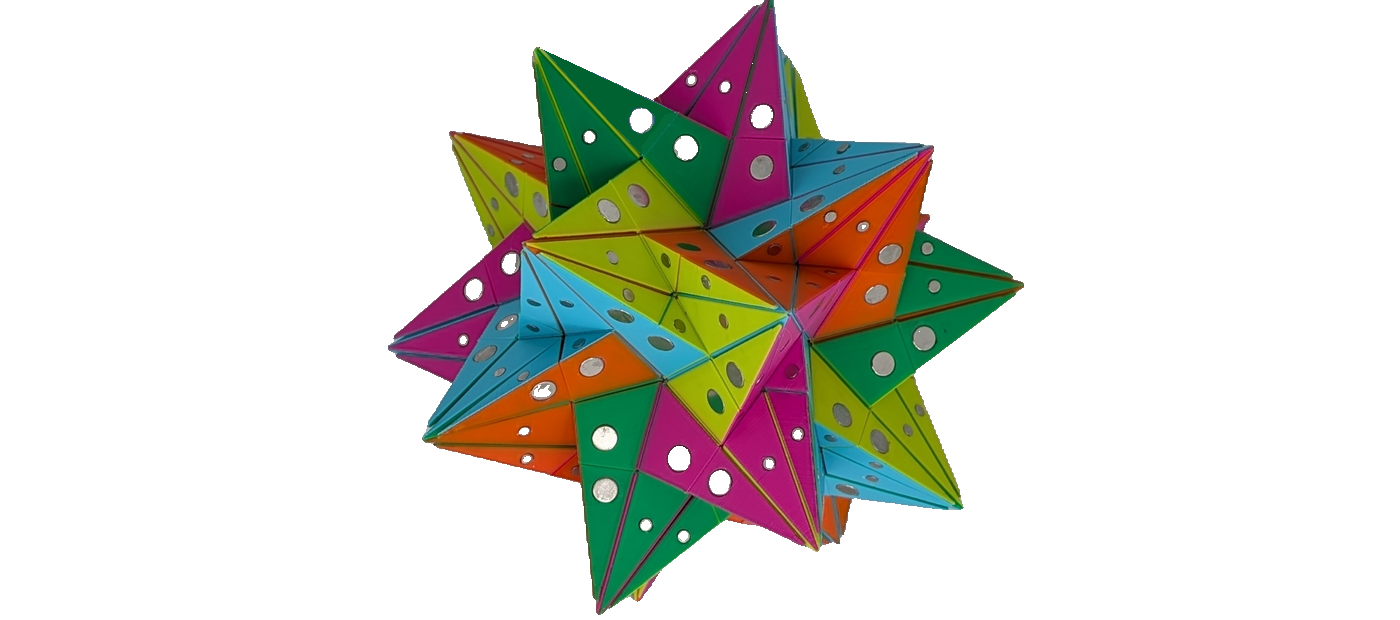
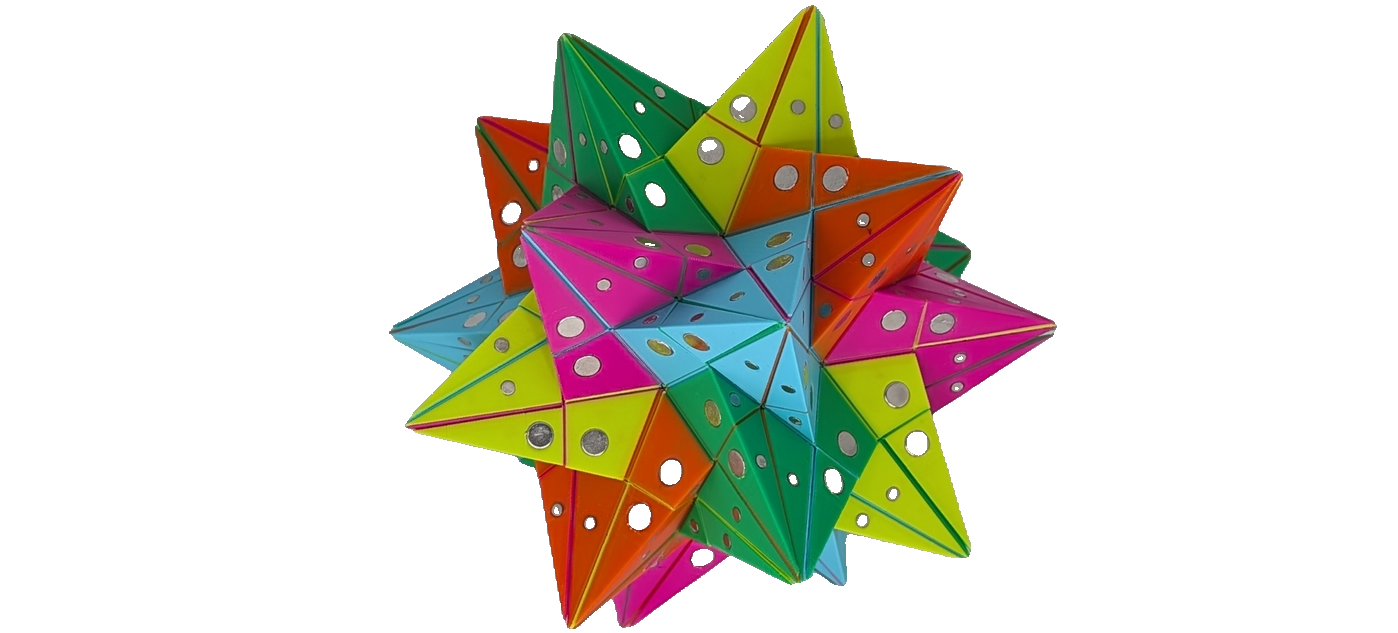
Initial Publication

Changed region(s): [[0.2768, 0.0, 0.769, 1.0]]

diff --git a/_posts/2025-02-15-Fully-supported-Stellations-of-the-Icosahedron-13-22-20.md b/_posts/2025-02-15-Fully-supported-Stellations-of-the-Icosahedron-13-22-20.md
@@ -68,27 +68,6 @@ To conclude, pictures of all the models made with a five-coloured magnetic set:
 </figure>
 
 <figure style="width: 87%; margin: 5%">
-       <img src="https://joris1724.github.io/vzome-sharing/2026/05/08/03-25-18-Five-Coloured-Stellations-Icosahedron/Five-Octahedra.png" >
-  <figcaption style="text-align: center; font-style: italic;">
-   Compound of Five Octahedra
-  </figcaption>
-</figure>
-
-<figure style="width: 87%; margin: 5%">
-       <img src="https://joris1724.github.io/vzome-sharing/2026/05/08/03-25-18-Five-Coloured-Stellations-Icosahedron/D.png" >
-  <figcaption style="text-align: center; font-style: italic;">
-   D Stellation
-  </figcaption>
-</figure>
-
-<figure style="width: 87%; margin: 5%">
-       <img src="https://joris1724.github.io/vzome-sharing/2026/05/08/03-25-18-Five-Coloured-Stellations-Icosahedron/De1.png" >
-  <figcaption style="text-align: center; font-style: italic;">
-   De1 Stellation
-  </figcaption>
-</figure>
-
-<figure style="width: 87%; margin: 5%">
        <img src="https://joris1724.github.io/vzome-sharing/2026/05/08/03-25-18-Five-Coloured-Stellations-Icosahedron/De1.png" >
   <figcaption style="text-align: center; font-style: italic;">
    De1 Stellation
@@ -110,7 +89,7 @@ To conclude, pictures of all the models made with a five-coloured magnetic set:
 </figure>
 
 <figure style="width: 87%; margin: 5%">
-       <img src="https://joris1724.github.io/vzome-sharing/2026/05/08/03-25-18-Five-Coloured-Stellations-Icosahedron/Five Tetrahedra.png" >
+       <img src="https://joris1724.github.io/vzome-sharing/2026/05/08/03-25-18-Five-Coloured-Stellations-Icosahedron/Five-Tetrahedra.png" >
   <figcaption style="text-align: center; font-style: italic;">
    Compound of Five Tetrahedra
   </figcaption>

diff --git a/_posts/2026-05-08-Five-Coloured-Stellations-Icosahedron-03-25-18.md b/_posts/2026-05-08-Five-Coloured-Stellations-Icosahedron-03-25-18.md
@@ -1,8 +1,8 @@
 ---
 title: Five-Coloured Stellations of the Icosahedron
-description: TODO
-image: https://joris1724.github.io/vzome-sharing/2026/05/08/03-25-18-Five-Coloured-Stellations-Icosahedron/Five-Coloured-Stellations-Icosahedron.png
-published: false
+description: A multicoloured clone of Bob Hearn's magnetic set for building the stellations of the Icosahedron, redesigned with vZome and OpenSCAD.
+image: https://joris1724.github.io/vzome-sharing/2026/05/08/03-25-18-Five-Coloured-Stellations-Icosahedron/Great-Icosahedron.png
+published: true
 layout: vzome
 tags: [stellations]
 ---
@@ -13,7 +13,7 @@ tags: [stellations]
  
 {% endcomment %}
 
-TODO
+An Icosahedron has 17 fully supported stellations: 15 reflexible and 2 pairs of chiral twins. The vZome model shows how each of these can be build:
 
 <figure style="width: 87%; margin: 5%">
   
@@ -21,13 +21,15 @@ TODO
   <vzome-viewer style="width: 100%; height: 60dvh" indexed='true'
         src="https://joris1724.github.io/vzome-sharing/2026/05/08/03-25-18-Five-Coloured-Stellations-Icosahedron/Five-Coloured-Stellations-Icosahedron.vZome" >
     <img  style="width: 100%"
-        src="https://joris1724.github.io/vzome-sharing/2026/05/08/03-25-18-Five-Coloured-Stellations-Icosahedron/Five-Coloured-Stellations-Icosahedron.png" >
+        src="https://joris1724.github.io/vzome-sharing/2026/05/08/03-25-18-Five-Coloured-Stellations-Icosahedron/Great-Icosahedron.png" >
   </vzome-viewer>
 
   <figcaption style="text-align: center; font-style: italic;">
-    Five-Coloured Stellations of the Icosahedron
+    Building Instructions
   </figcaption>
 </figure>
+
+A magnetic set of building blocks, able to construct all stellations, requires eleven different types of cells: 9 reflexible and 1 pair of chiral twins. The colouring scheme has been chosen in such a way that the compound of five tetrahedra (probably the best known stellation), has a dedicated colour for each component. By this, even the reflexible stellations look chiral after colouring. All fully supported stellations have actually been built, as shown in the following pictures:
 
 <figure style="width: 87%; margin: 5%">
        <img src="https://joris1724.github.io/vzome-sharing/2026/05/08/03-25-18-Five-Coloured-Stellations-Icosahedron/Icosahedron.png" >

diff --git a/_posts/2026-01-25-Echidnahedron-00-11-18.md b/_posts/2026-01-25-Echidnahedron-00-11-18.md
@@ -4,6 +4,7 @@ description: Also known as the Final or Complete Stellation of the Icosahedron. 
 image: https://joris1724.github.io/vzome-sharing/2026/01/25/00-11-18-Echidnahedron/Echidnahedron.jpg
 published: true
 layout: vzome
+last-updated: May 8, 2026
 tags: [stellations]
 ---
 
@@ -40,3 +41,12 @@ The physical model is constructed around a <a href="https://joris1724.github.io/
 
 
 When viewing the Openscad files: don't use the <i>latest official</i> version of openSCAD, which is five years old, but a more recent <i>development snapshot</i>. It is assumed the <a href="https://joris1724.github.io/vzome-sharing/2025/12/24/11-38-40-Paneled-Compound-of-5-Tetrahedra/connector.scad">connector.scad</a> file is available locally.
+<p>
+To conclude, a picture of the model made with a five-coloured magnetic set:
+
+<figure style="width: 87%; margin: 5%">
+       <img src="https://joris1724.github.io/vzome-sharing/2026/05/08/03-25-18-Five-Coloured-Stellations-Icosahedron/Echidnahedron.png" >
+  <figcaption style="text-align: center; font-style: italic;">
+   Magnetic Set Model
+  </figcaption>
+</figure>

diff --git a/_posts/2026-01-22-Eighth-Stellation-of-the-Icosahedron-00-02-52.md b/_posts/2026-01-22-Eighth-Stellation-of-the-Icosahedron-00-02-52.md
@@ -26,7 +26,7 @@ Sometimes vZome let you design interesting models, until one realizes that in a 
 To tackle this problem, the right side of the figure shows that a modified green strut foot has provided a solution: instead of bending towards a pentagonal hole, it bends in the other direction, passing the rectangular holes, into the neighbouring triangular hole. Moreover, the modified strut is excavated, so that it does not interfere with blue or red struts, if present. The tips of the struts are generated by vZome's <i>3D Printing Starters</i>.
 <p>
 
-This technique is applied here to build a physical model of the <i>Ef1f2</i> Stellation of the Icosahedron. It is a one of the 17 fully supported stellations, but it is not shown in an <a href="https://joris1724.github.io/vzome-sharing/2025/02/15/Fully-supported-Stellations-of-the-Icosahedron-13-22-20.html">earlier post</a>, since, without modification, it cannot be build with Zometool. The model is constructed around a icosadocahedron with edge length hb0. As these are extremely short, it is easier to connect the vertices of the icosadodecahedron to the centre (pink hb1 struts in the building instructions). The hg0's and b1's in the model are standard Zometool struts. The modified hb2's have been <a href="https://joris1724.github.io/vzome-sharing/2026/01/22/00-02-52-Eighth-Stellation-of-the-Icosahedron/Eighth-Stellation-of-the-Icosahedron-Modified-hg2.scad">3D printed<a> in PLA. The small black line on each of the struts is a residu of black PETG which was used as support.
+This technique is applied here to build a physical model of the <i>Fg2</i> Stellation of the Icosahedron. It is a one of the 17 fully supported stellations, but it is not shown in an <a href="https://joris1724.github.io/vzome-sharing/2025/02/15/Fully-supported-Stellations-of-the-Icosahedron-13-22-20.html">earlier post</a>, since, without modification, it cannot be build with Zometool. The model is constructed around a icosadocahedron with edge length hb0. As these are extremely short, it is easier to connect the vertices of the icosadodecahedron to the centre (pink hb1 struts in the building instructions). The hg0's and b1's in the model are standard Zometool struts. The modified hb2's have been <a href="https://joris1724.github.io/vzome-sharing/2026/01/22/00-02-52-Eighth-Stellation-of-the-Icosahedron/Eighth-Stellation-of-the-Icosahedron-Modified-hg2.scad">3D printed<a> in PLA. The small black line on each of the struts is a residu of black PETG which was used as support.
 
 
 <figure style="width: 87%; margin: 5%">
@@ -44,7 +44,7 @@ This technique is applied here to build a physical model of the <i>Ef1f2</i> Ste
 To conclude, a picture of the model made with a five-coloured magnetic set:
 
 <figure style="width: 87%; margin: 5%">
-       <img src="https://joris1724.github.io/vzome-sharing/2026/05/08/03-25-18-Five-Coloured-Stellations-Icosahedron/Ef1f2.png" >
+       <img src="https://joris1724.github.io/vzome-sharing/2026/05/08/03-25-18-Five-Coloured-Stellations-Icosahedron/Fg2.png" >
   <figcaption style="text-align: center; font-style: italic;">
    Magnetic Set Model
   </figcaption>